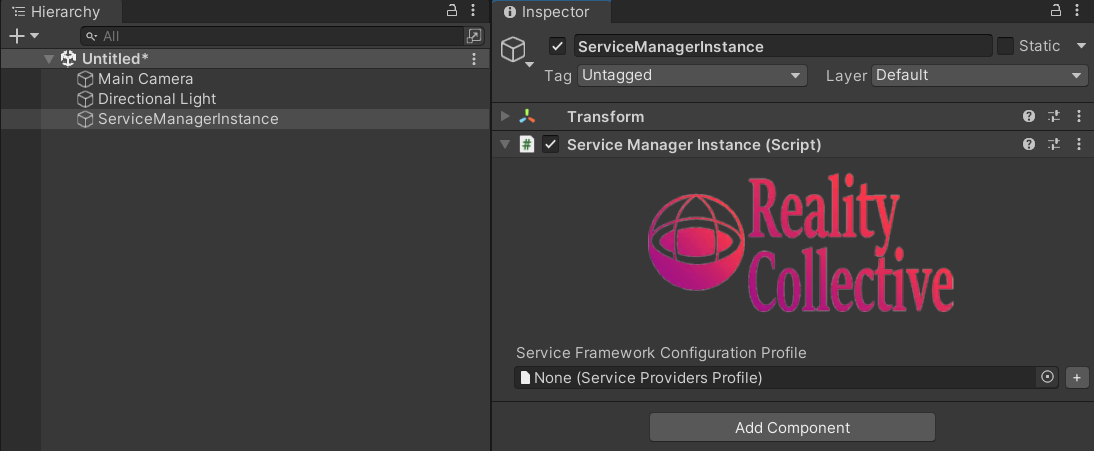
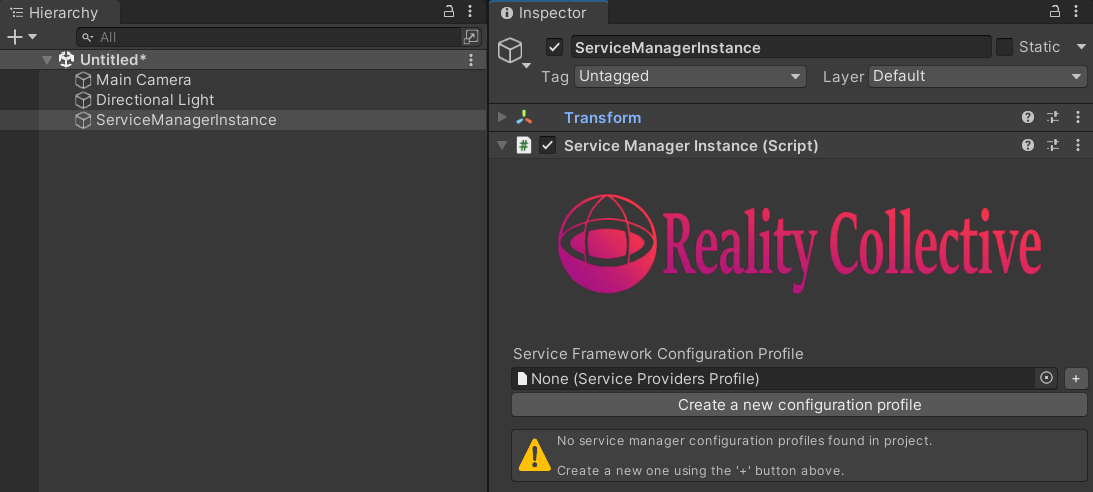
Initial check-in of docs update following Data Provider name change

diff --git a/docs/basics/02_getting_started.md b/docs/basics/02_getting_started.md
@@ -75,6 +75,14 @@ The Service Manager Instance is the ONLY MonoBehaviour GameObject that needs to 
 
 > There is an additional pattern available whereby the Service Framework can be integrated with your own functionality, not requiring the additional GameObject, essentially providing the Service Framework as a property in your own code.  see the [Service Patterns and implementations](./05_service_patterns.md) for more information.
 
+You can automatically add a **Service Manager Instance** to your scene using the handy editor menu option:
+
+> Reality Collective -> Service Framework -> Add to Scene
+
+![Platform Switcher component](./images/00_02_ServiceFramework_add_to_scene.png)
+
+Or you can create it manually, as follows:
+
 1. To begin, simply create an Empty GameObject (*Editor -> GameObject -> Create Empty*) and call it the "Service Manager Instance"
 
 ![Service Manager Instance](./images/02_02_ServiceManagerInstance.png)
@@ -91,7 +99,7 @@ Now that the Service Manager is in your scene, you can select it to see its curr
 
 ## Creating the root configuration for the Service Manager
 
-The simplest way to create your first new Root configuration for the Service Framework is to select the "**+**" symbol on the "**Reality Toolkit configuration Profile**" field in the inspector with the "Service Manager Instance" selected.
+The simplest way to create your first new Root configuration for the Service Framework is to select the "**+**" symbol on the "**Reality Toolkit configuration Profile**" field in the inspector with the "Service Manager Instance" selected, or simply click the "Create a new configuration profile" button below the profile field.
 
 This will automatically create you a new configuration file called "**ServiceProvidersProfile**" in the root of your assets folder.  Feel free to move this wherever you like in your assets folder as it will remain references to the instance of the Service Framework.
 
@@ -105,9 +113,9 @@ Once configured, the Service Framework is ready to receive the services you crea
 
 There are additional options you can enable on the Service Framework Instance, which have the following behaviours:
 
-* Initialize on Play - Will only initialize the framework configuration when you hit **Play** in the editor, else it will always run and validate your configuration.  *Note this does not affect runtime, where the Service Framework always starts.
+* Initialize on Play - Will only initialize the framework configuration when you hit **Play** in the editor, else it will always run and validate your configuration. <br/> **Note** this does not affect runtime, the Service Framework always starts when the project is running.
 
-* Do Not destroy Service Manager on Load - By default, the Service Manager Instance will set itself to initialize in to a separate scene and will stay running for the life time of the project.  If you want to have separate Service Managers in eah scene, then disable this option.
+* Do Not destroy Service Manager on Load - By default, the Service Manager Instance will set itself to initialize in to a separate scene and will stay running for the life time of the project.  If you want to have separate Service Managers in each scene, then disable this option.
 
 ---
 
@@ -119,32 +127,34 @@ However, to make life a bit easier, especially when working to build for differe
 
 ![Platform Switcher component](./images/02_11_PlatformSwitcher.png)
 
-Changing this option to another platform will force Unity to switch build targets and reload scripts for that platform.
+Changing this option to another platform will force Unity to switch build targets and reload scripts for that platform. 
+> **By the way, this is about 50% or more faster than using the build settings window, just saying :D**
 
 ---
 
 ## Using the Service Generator
 
-Creating your first service is relatively easy, the hardest part is knowing what you want your service to do (check out [the examples](./01_introduction.md#use-cases-and-what-is-a-service-anyway) in the Introduction).  For the code, we have included a quick and easy **Service Generator** to get you going.
+Creating your first service is relatively easy, the hardest part is knowing what you want your service to do (check out [the examples](./01_introduction.md#use-cases-and-what-is-a-service-anyway) in the Introduction).  To get you started with a new service we have included a quick and easy **Service Generator** to get you going.
 
 ![Service Generator Menu Option](./images/02_04_ServiceGenerator.png)
 
 In the Unity Editor menu under **Reality Collective** (where all Reality Collective tools are maintained), you will find the menu item for the **Service Framework** with two entries for:
 
 * Create new service
-* Create new data provider (to be covered later in [Advanced Service Design](./04_advanced_services.md))
+* Create new service provider (to be covered later in [Advanced Service Design](./04_advanced_services.md))
 
 On selecting the **Create new service** option, you will be presented with the **Service Wizard** window to choose your service generation options:
 
-![Service Wizard screen](./images/02_05_ServiceWizard.png)
+![Service Wizard screen](./images/00_01_ServiceWizard.png)
 
 The options for generating your service are very easy to use, simply enter:
 
-* Output path - Where you want the service files to be generated into (the default is the root of your Assets folder)
+* Output path - Where you want the service files to be generated into (the default is the root of your Assets folder) - use the button to change where the files are placed on generation.
 * Namespace - The [C# namespace](https://docs.microsoft.com/en-us/dotnet/csharp/language-reference/language-specification/namespaces) you want to be applied to your service (we always recommend using a namespace to uniquely identify your own code)
 * Instance Name - The new name for your service
+* Generate Profile? - If checked, the generator will also generate a scriptable object profile for you create editable controls for your service should you need them. Completely optional.
 
-Once you have entered the details for your new service, just click on **Generate!** and the generator will automatically create a blank service, interface and profile in the folder you specified.
+Once you have entered the details for your new service, just click on **Generate!** and the generator will automatically create a blank service, interface and profile (if you opted to generate a profile) in the folder you specified.
 
 ![Newly generated service](./images/02_06_NewServiceGeneration.png)
 
@@ -175,7 +185,7 @@ Here you you would:
 * **Name** - Give your Service a **Name** in the Name field
 * **Instanced Type** - Select your Service **Instanced Type** from the Drop-down (more on that shortly)
 
-> Once the Instance Type is selected, you can also assign a Profile for the service, which is optional.  Click "+" to create a default configuration for the Service.
+> Once the Instance Type is selected, you can also assign a Profile for the service if you generated the service with a profile, which is optional.  Click "+" to create a default configuration for the Service.
 
 * **Runtime Platforms** - Select the **Platforms** the service will run on, the list shows what is available to Unity by default [but can be extended](./06_platform_system.md)
 
@@ -185,7 +195,7 @@ Clicking the **Instanced Type** drop-down shows the list of services detected by
 
 > If your service does not show up in the list, make sure the Namespace is accessible, especially if your Service is located in a folder with an Assembly Definition (which limits how code is accessed). Just create a new C# script and try to create a new instance of your Service Manually (var test = new TestService())
 
-> If you ALSO want your service to be accessibly when hitting Play in the Editor, make sure to also select the **Editor** platform (or select "Everything").  The system does EXACTLY as it is told and will only try to start your service on the platforms it is told to.
+> If you ALSO want your service to be accessible when hitting Play in the Editor, make sure to also select the **Editor** platform (or select "Everything").  The system does EXACTLY as it is told and will only try to start your service on the platforms it is told to.
 
 With your service configured and available to run it is now available from ANYWHERE in your project.
 
@@ -236,9 +246,9 @@ This is generally the better approach but it all depends on the usage of your se
 
 ## See the running state of your service
 
-A handy feature contributed by one of our community ([Joost van Schaik](https://localjoost.github.io/)) which allows you to see the running state of your service and all its properties from within the editor.
+A handy feature contributed by one of our community ([Joost van Schaik](https://localjoost.github.io/)) allows you to see the running state of your service and all its properties from within the editor.
 
-Simply create an Empty GameObject with the same **Name** (The Name registered in the configuration and not the class name) as your service, add the **Service Display Hook** component and all the running properties of the Service will appear in the inspector for that service:
+Simply create an Empty GameObject with the same **Name** (The Name registered in the configuration and not the class name) as your service, add the **Service Display Hook** component, all the running properties of the Service will appear in the inspector for that service:
 
 ![Service Display Hook](./images/02_10_ServiceDisplay.png)
 

diff --git a/docs/get-started.md b/docs/get-started.md
@@ -12,7 +12,7 @@ The Service framework provides a service repository for enabling background serv
 
 * Platform specific operation - choose which platforms your service runs on.
 * Zero Latency from Unity operations - services are fully c# based with no Unity overhead.
-* Ability to host several sub-services (data providers) as part of a service, automatically maintained by a parent service and also platform aware.
+* Ability to host several sub-services (service providers) as part of a service, automatically maintained by a parent service and also platform aware.
 * Fully configurable with Scriptable profiles - Each service can host a configuration profile to change the behavior of your service without changing code.
 
 ## Requirements
@@ -48,12 +48,14 @@ The service framework has been the foundation behind such toolkits as Microsoft'
 * A platform independent input system - A single service able to route input data from multiple controllers on various platforms, each controller only activates on the platform it was designed for.
 * An Authentication service - Able to integrate with multiple authentication providers as needed through a single interface.
 * A networking service - Utilizing multiple endpoints for Lobby's, communication routes and data sharing.
+* A leaderboard system - A leader board service can manage access to different leader board system/solution or simply manage sub services to control access to different types of leaderboard, all in one place.
+* A "Settings" Service - to manage and control the application state and various runtime options, regardless of which scene you are currently in.
 
 The possibilities are almost endless.
 
 ## Quickstart
 
-> If you want a more indepth tutorial on the Service Framework and creating services, check out the [Introduction](./basics/01_introduction.md) series.
+> If you want a more in-depth tutorial on the Service Framework and creating services, check out the [Introduction](./basics/01_introduction.md) series.
 
 ### 1. Creating a service
 
@@ -63,7 +65,7 @@ A fully featured "**Service Generator**" is included with the Service Framework 
 * A configuration profile - to customize to the needs of your service (optional, delete if not required)
 * The Service Implementation - You service to do with as you wish.
 
-Additionally, the generator can also create additional data providers (sub services) for your service to maintain, these require you to specify the parent services interface when generating to ensure they are appropriately bound in creation.  Data Providers are automatically started with a parent service provided their platforms match the current operating environment.
+![Platform Switcher component](basics/images/00_01_ServiceWizard.png)
 
 ### 2. Configuring your service
 
@@ -71,11 +73,20 @@ With your service created, it will need to be registered with an active "Service
 
 > Note, at this time, only a single Service Framework Manager can be active in the scene at a time.  If you are intending to use the Framework with toolkit's such as the Reality Toolkit which already has an instance of the Service Framework embedded, then you will need to use the toolkit's endpoints to communicate with the Service Framework.
 
-Simply create an **empty GameObject** and add the **ServiceManagerInstance** component to it to begin.  From there it is simply a matter of creating a Profile for the Service Manager and then adding your services to it.
+Simply use the handy Editor function provided by the Reality Collective to add a **Service Manager Instance** to a scene using:
+
+> Reality Collective -> Service Framework -> Add to Scene
+
+![Platform Switcher component](basics/images/00_02_ServiceFramework_add_to_scene.png)
+
+Once added, click on the **Create a new configuration profile** to create the configuration needed to run your service and add the service you generated using the handy drop downs to locate it.
+P.S. Don't forget to also set the Platforms your service needs to run on, if in doubt select "Everything", I'm sure it'll be fine :D
+
+![Platform Switcher component](basics/images/00_03_ServiceManagerConfiguration.png)
 
 ### 3. Accessing your running services
 
-Your services are available at any time from anywhere in your code by simply requesting the service from the Service Manager using its interface (Data Providers are also accessible directly, although we recommend working through your service), for example:
+Your services are available at any time from anywhere in your code by simply requesting the service from the Service Manager using its interface, for example:
 
 ```csharp
     var myService = ServiceManager.Instance.GetService<MyServiceInterface>();
@@ -93,7 +104,10 @@ Alternatively, there are also "TryGet" versions of the Service endpoints which *
 
 ## Final notes
 
-The Service Framework is robustly tested and confirmed to be working in most versions of Unity, including Unity 2021 LTS.  However, it is still classed as a preview while the rest of the Reality Toolkit is going through active development.
+The Service Framework is robustly tested and confirmed to be working in most versions of Unity, including the Unity 2021 latest LTS (2021.3.11f1, not prior versions).  
+
+> **At this time, Unity 2022 is not yet supported due to a bug in Unity, which is being fixed.**
+
 It is being used in production solutions by the Reality Collective team, but it will be up to you as a developer how you choose to consume and operate the framework in your solutions.
 
 ## Feedback
@@ -104,8 +118,7 @@ Please feel free to provide feedback via the [Reality Toolkit dev channel here](
 
 There are some fringe areas of the framework which are still under development and improvement, these include:
 
-* In Unity 2021, the inspector for selecting Service Framework Profiles is a little inconsistent due to 2021 changes.  No issues found in Unity 2020 or below
-* The Lookups for Service Types and Data Providers types include all services and providers the toolkit can see, this includes base types and testing data. These will be filtered out later.
+* The Lookups for Service Types and Service Providers types include all services and providers the toolkit can see, this includes base types and testing data. These will be filtered out later.
 * We resolved a critical issue where some data types (such as delegates) can cause Unity to crash when used, this is a known Unity issue and has been logged.  Several workarounds have been implemented to handle these edge cases but there could possibly be more on different platforms (because Unity...)
 * More documentation is needed for the Service Framework, including examples (currently the Reality Toolkit is the best set of examples).  These will be improved over time.
 
@@ -116,7 +129,7 @@ There are some fringe areas of the framework which are still under development a
 * [Introduction](./basics/01_introduction.md)
 * [Creating your first service](./basics/02_getting_started.md)
 * [Service design](./basics/03_service_design.md)
-* [Advanced services and sub services (data providers)](./basics/04_advanced_services.md)
+* [Advanced services and sub services (service providers)](./basics/04_advanced_services.md)
 * [Service Patterns and implementations](./basics/05_service_patterns.md)
 * [Platform System](./basics/06_platform_system.md)
 * [Roadmap](./basics/07_roadmap.md)

diff --git a/docs/basics/01_introduction.md b/docs/basics/01_introduction.md
@@ -14,7 +14,7 @@ Ultimately it services to solve some of the common use cases that cause Unity de
 
 ## Why use a Service Framework?
 
-In many cases, code is written and attached to MonoBehaviours in order to execute and run, this is perfectly fine where this code is to manage the state of a UX component as it operates in the project.  However, In may cases empty game objects are created to "just run" code or have access to certain Unity functions, in other cases repetitive use of static classes are implemented just so make code accessible, all of which can cause problems in the long run, such as:
+In many cases, code is written and attached to MonoBehaviours in order to execute and run, this is perfectly fine where this code is to manage the state of a UX component as it operates in the project.  However, In many cases empty game objects are created to "just run" code or have access to certain Unity functions, in other cases repetitive use of static classes are implemented just so make code accessible, all of which can cause problems in the long run, such as:
 
 * Finding code attached to GameObjects requires you to either know which object it is attached to or use expensive GameObject.Find techniques to locate them.  Granted, these references are then caches to avoid these performance drains, but usually many times throughout code.
 
@@ -41,21 +41,21 @@ The Service Framework at its core provides:
 * Full access to the entire MonoBehaviour lifecycle for all running services
 * A highly performant cycle, providing up to an 80% speed increase over using traditional MonoBehaviour attached scripts.
 
-There are many more benefits available to developers utilizing the Service Framework, this are just the highlights.  To learn more, simply start creating your own services and see the benefits in your own projects.
+There are many more benefits available to developers utilizing the Service Framework, these are just the highlights.  To learn more, simply start creating your own services and see the benefits in your own projects.
 
 ## The Service Framework Platform System
 
-In addition to the rest of the capabilities of the Service Framework, it also implements a powerful and extensible Platform System, this enabled the Service Framework to detect the currently running platform and which platform is currently being targeted by the Editor.
+In addition to the rest of the capabilities of the Service Framework, it also implements a powerful and extensible Platform System, this enables the Service Framework to detect the currently running platform and which platform is currently being targeted by the Editor.
 
 All the current Unity build platforms are included by default (all targets available in the Build Settings screen), however, additional platforms can be defined within your project or within additional UPM packages that will automatically be picked up and registered (so long as the Editor and your project can see them).
 
-This then allows you to configure on which platforms your service should run, this is multi-selectable, so you can choose all platforms or just a selection.  You also create "Mock" services and have these only available in the editor if you so wish.
+This then allows you to configure on which platforms your services should run, this is multi-selectable, so you can choose all platforms or just a selection.  You also create "Mock" services and have these only available in the editor if you so wish.
 
 Check the [Platform System](./06_platform_system.md) section for more information.
 
 ## Services and SubServices (data providers) - Advanced
 
-In addition to the core services you can create, it is also possible to create sub-services (also referred as data providers) which are connected to their parent core service.
+In addition to the core services you can create, it is also possible to create sub-services (also referred as service providers) which are connected to their parent core service.
 This enables you to create a "Header" service to accept requests and then provide multiple implementations for that service, usually to support multiple platforms but can also be used as a collection of providers to obtain data from, such as:
 
 * An asset service that can add providers that connect to google, sketchfab, Azure or wherever you can get assets from, all returned through the main parent service.
@@ -64,7 +64,7 @@ This enables you to create a "Header" service to accept requests and then provid
 
 This capability is a bit more advanced advanced and potentially limitless.
 
-For more information checkout the [Advanced services and sub services (data providers)](./04_advanced_services.md) section.
+For more information checkout the [Advanced services and sub services (service providers)](./04_advanced_services.md) section.
 
 ## Use Cases (and what is a Service anyway?)
 
@@ -96,13 +96,24 @@ There are many more advanced implementations possible, some of which are likely 
 
 ---
 
+### A Leaderboard service
+
+Most games or projects need to connect to backend systems in order to communicate or extend the platform, the most common of these being a leaderboard system in games (and some apps).  Given the many different systems available that support various platforms (in the most complex of scenarios, using a different system per platform), implementations tend to be difficult or hard to manage.
+
+By building a central service that all code can talk to, additional providers can be published to cope with the many various needs of running leaderboards, within our team two implementations are used:
+
+* A central service to field all leaderboard requests with several providers defined for each system, each system only being active for the platform that system is used for.  One request, multiple endpoints.
+* A hosting service that manages all the API / Authentication needs and providers for each leaderboard, allowing, through configuration, multiple leaderboards each with different properties all running in the background, either available collectively through the service or independently directly through the service provider for that leaderboard.
+
+---
+
 ## More information
 
 for more information on the Service Framework, check out these additional links:
 
 * [Creating your first service](./02_getting_started.md)
 * [Service design](./03_service_design.md)
-* [Advanced services and sub services (data providers)](./04_advanced_services.md)
+* [Advanced services and sub services (service providers)](./04_advanced_services.md)
 * [Service Patterns and implementations](./05_service_patterns.md)
 * [Platform System](./06_platform_system.md)
 * [Roadmap](./07_roadmap.md)
